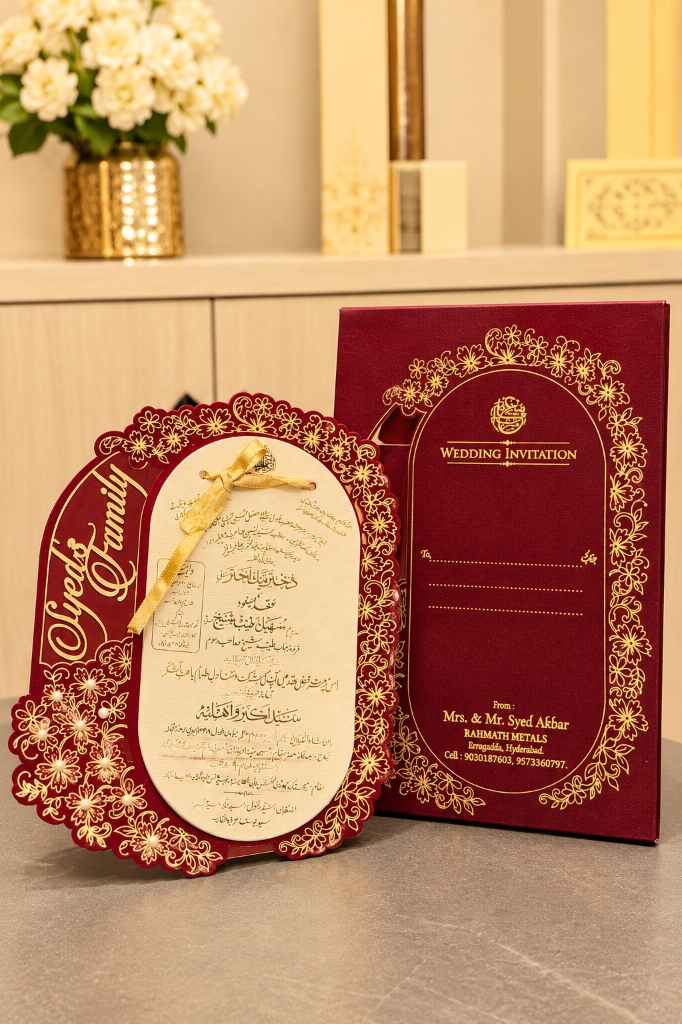
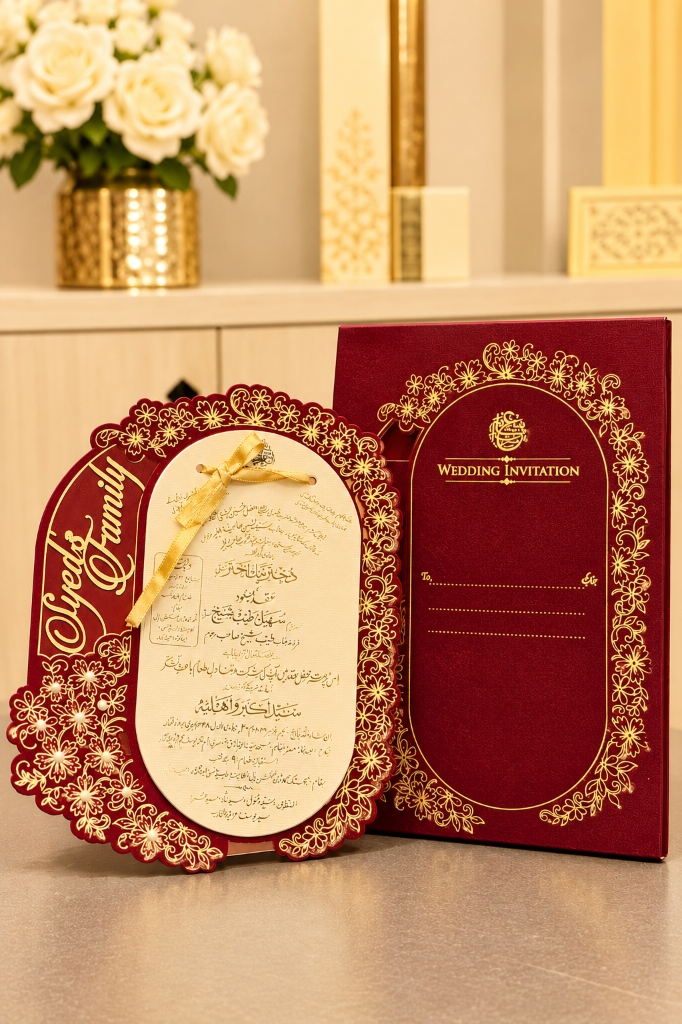
Update login hero image with high resolution wedding card photo

diff --git a/public/login.html b/public/login.html
@@ -59,7 +59,7 @@
     .login-hero {
       flex: 1.15;
       position: relative;
-      background: url('images/login-hero.jpg') center center / cover no-repeat;
+      background: url('images/login-hero.jpg?v=2') center center / cover no-repeat;
       overflow: hidden;
       min-height: 560px;
     }
